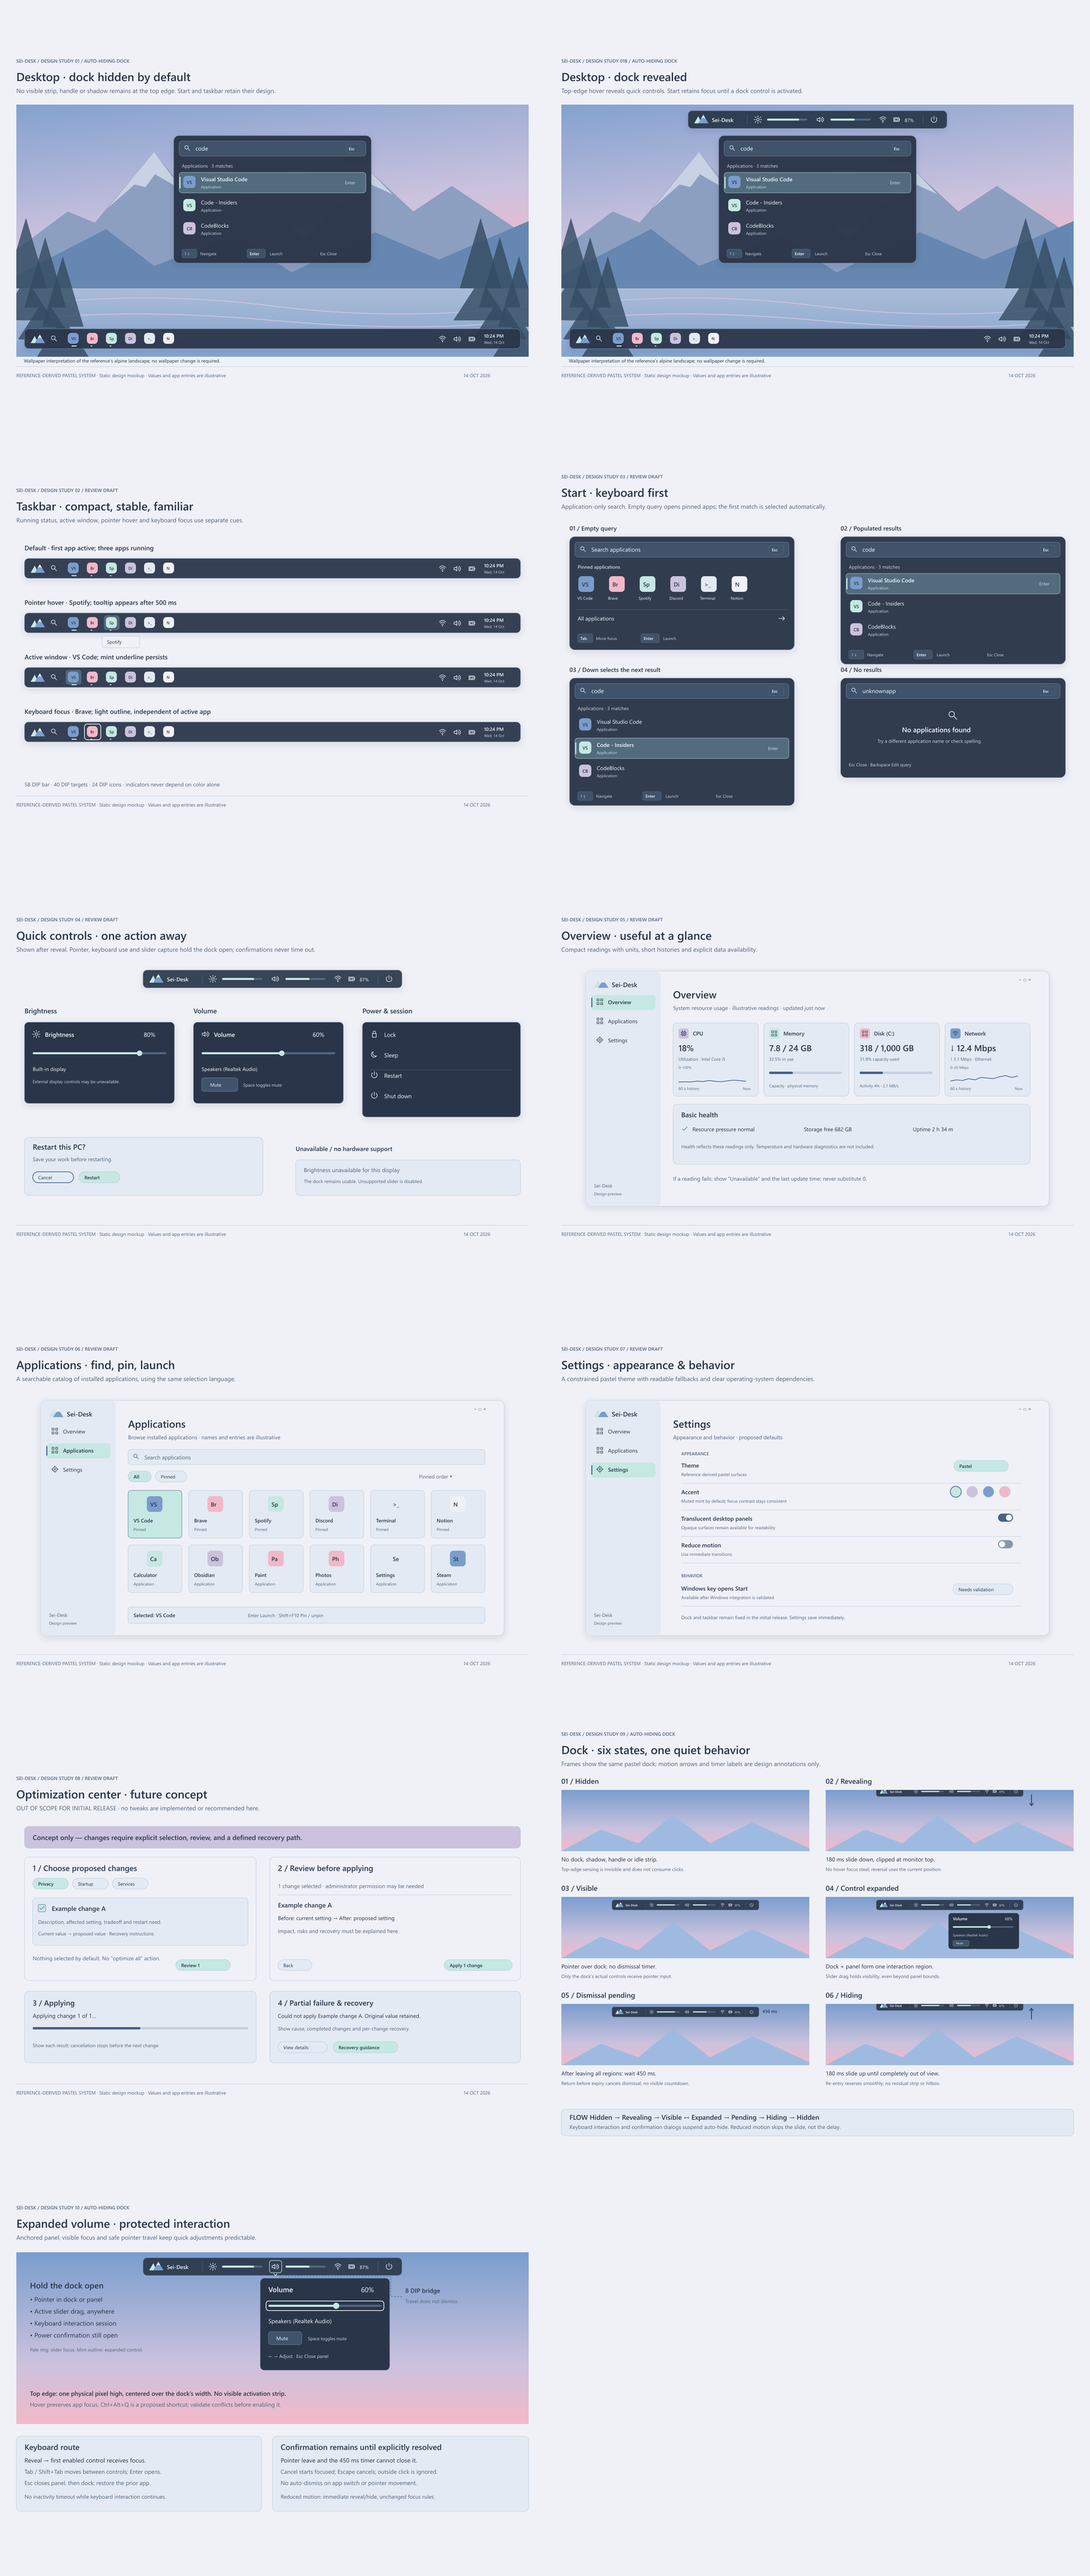
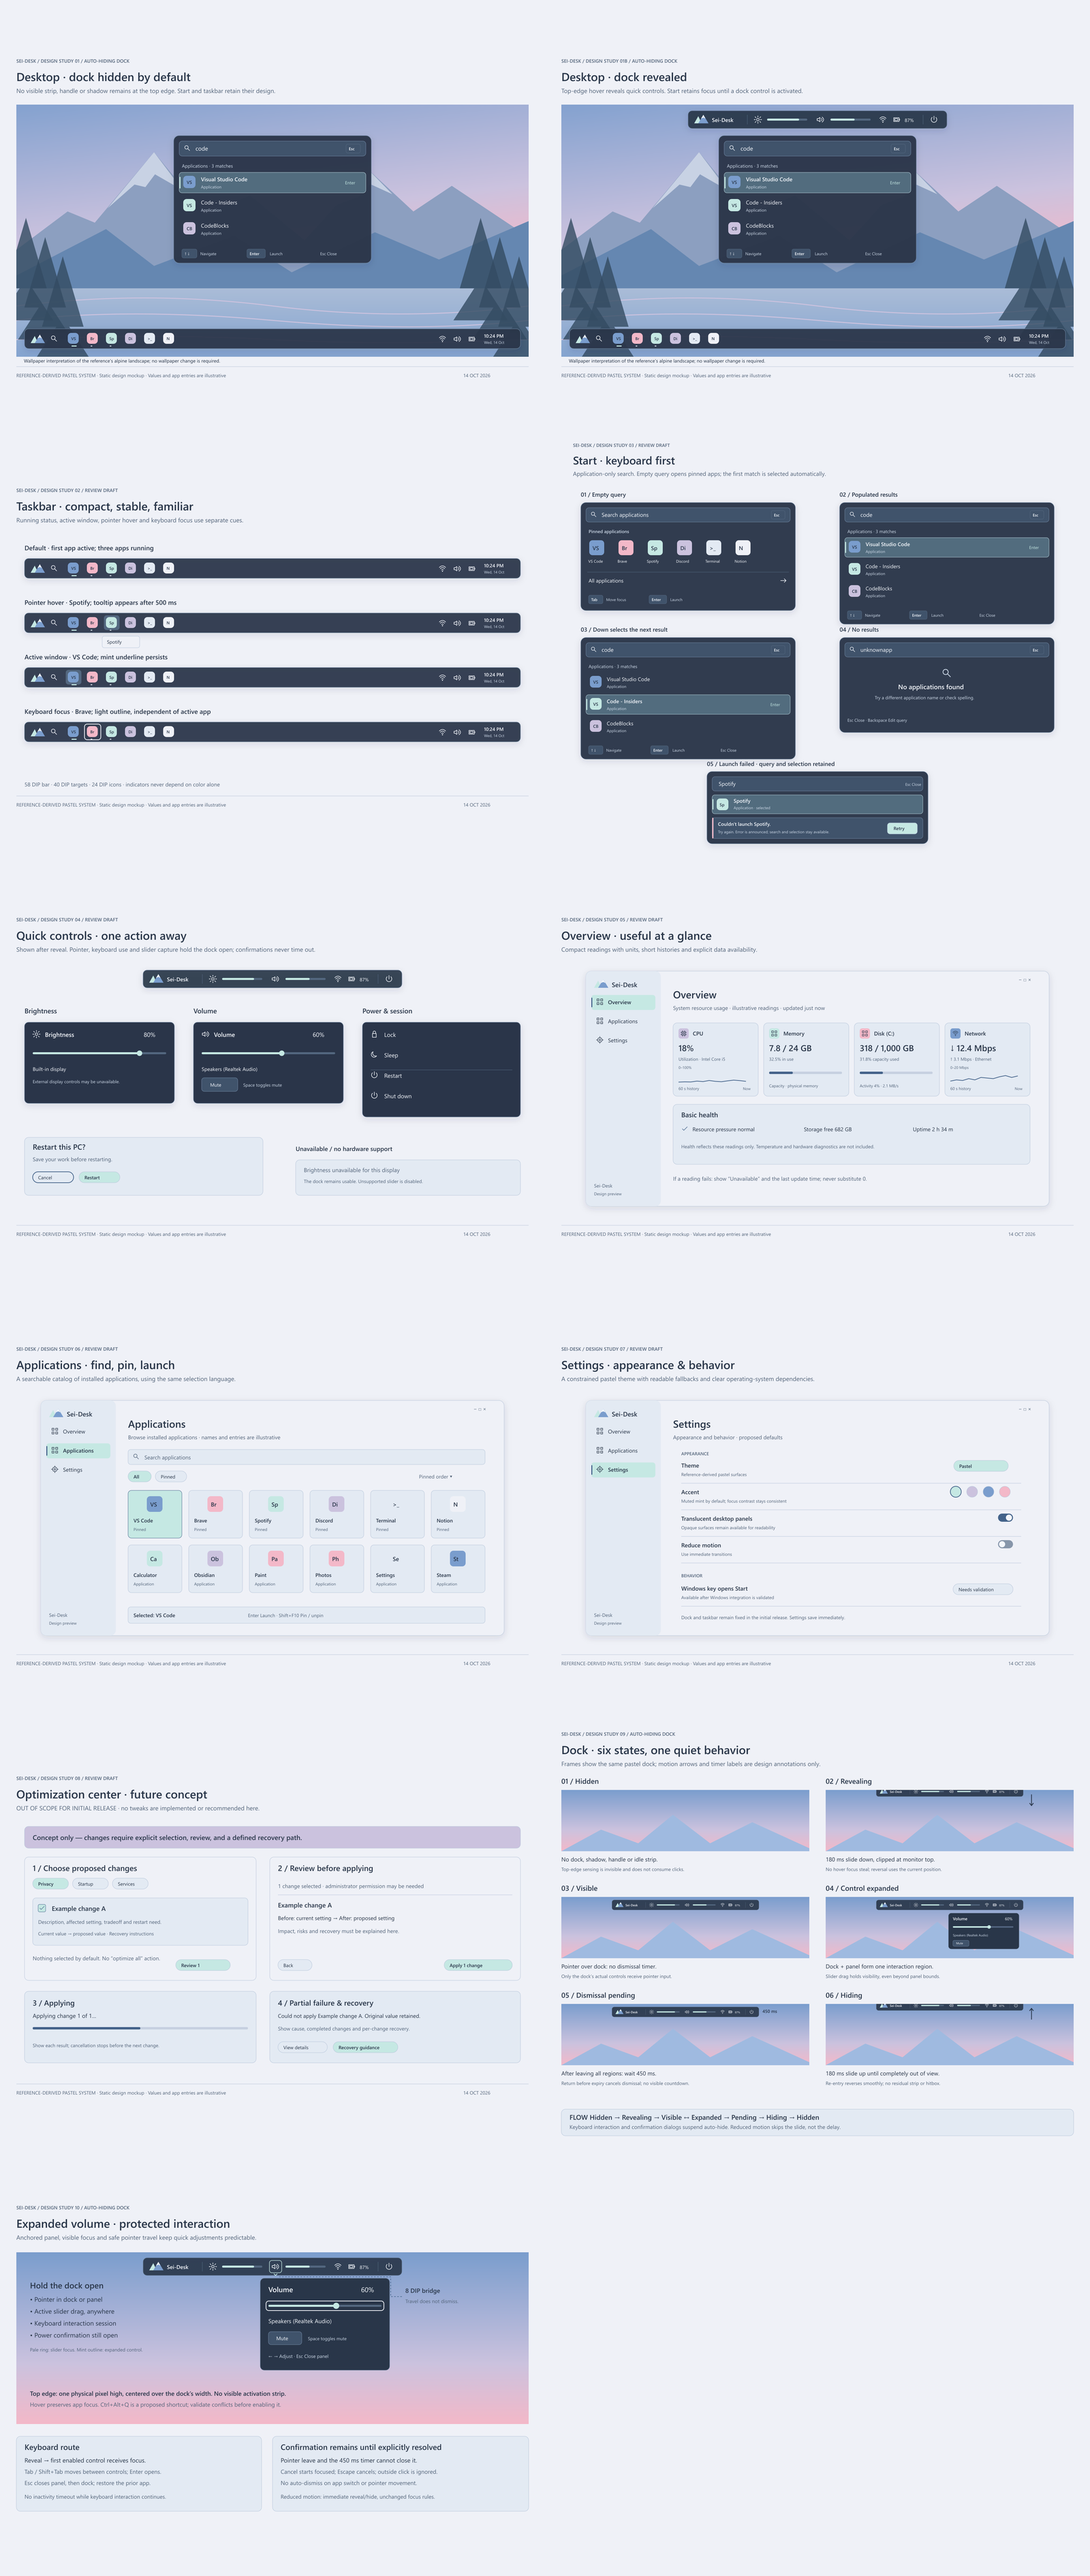
docs: finalize Sei-Desk desktop shell design

Changed region(s): [[0.5, 0.1561, 1.0, 0.3434]]

diff --git a/docs/design/SEI-DESK-UI-UX-SPEC.md b/docs/design/SEI-DESK-UI-UX-SPEC.md
@@ -36,7 +36,7 @@ No window tiling, marketplace, assistant, gaming features, extra system utilitie
 | --- | --- | --- |
 | 01 | [Desktop — dock hidden](mockups/01-desktop-composition.svg) | Default desktop, no top strip, unchanged Start and taskbar |
 | 01B | [Desktop — dock revealed](mockups/01b-desktop-dock-revealed.svg) | Same composition after non-activating top-edge reveal |
-| 02 | [Taskbar states](mockups/02-taskbar-states.svg) | Default, running, active, hover, keyboard focus |
+| 02 | [Taskbar states](mockups/02-taskbar-states.svg) | Default, running, active, hover, keyboard focus; minimized, grouped and narrow-layout behavior is specified in section 7 |
 | 03 | [Start states](mockups/03-start-launcher-states.svg) | Empty query with pins, matches, moved selection, no results |
 | 04 | [Quick-control dock](mockups/04-quick-control-dock.svg) | Revealed dock, brightness, volume/mute, power, confirmation, unavailable |
 | 05 | [Monitoring](mockups/05-system-overview.svg) | Four metrics, histories, basic health and data-failure rule |
@@ -127,6 +127,7 @@ Start button opens/closes the application launcher. Search button opens the same
 | Pinned, not running | App icon; no underline |
 | Running, inactive | Small centered pale dot below icon |
 | Active | Short mint underline plus tinted tile; no glow |
+| Minimized | Running dot remains; active underline clears; expose “Minimized” in the window chooser/accessibility state |
 | Hover | Slightly lighter slate tile; app-name tooltip after 500 ms |
 | Pressed | Stronger local tint until release; no layout shift |
 | Keyboard focus | 2 DIP light outline on dark surface; independent of active underline |
@@ -135,9 +136,13 @@ Start button opens/closes the application launcher. Search button opens the same
 | Launch failure | Anchored message with app name and Retry; no endless spinner |
 | Missing pinned app | Neutral placeholder with label and Remove pin action |
 
-Click a non-running app to launch; click a running app to request activation; click a group with multiple windows to choose a window. Do not assume clicking an active app minimizes it; v1 requests activation consistently. Right-click / Shift+F10 exposes Launch and Pin/Unpin, plus supported window selection. No jump-list, thumbnail-preview or task termination feature is introduced. Pins persist in user-defined order; manage ordering through a bounded “Move left / Move right” action in the catalog/taskbar context menu, avoiding a required drag implementation.
+Click a non-running app to launch; click a running app to request activation or restore it if minimized; click a group with multiple windows to choose a window. Do not assume clicking an active app minimizes it; v1 requests activation consistently. Right-click / Shift+F10 exposes Launch and Pin/Unpin, plus supported window selection and **Minimize** for the selected eligible window. The window chooser labels minimized entries and selecting one requests restore/activation. These actions are requests subject to Windows foreground and ownership rules; do not report success if activation is denied. No jump-list, thumbnail-preview or task termination feature is introduced. Pins persist in user-defined order; manage ordering through a bounded “Move left / Move right” action in the catalog/taskbar context menu, avoiding a required drag implementation.
 
-Focus cycling uses Tab/Shift+Tab between groups, Left/Right within app slots, Enter/Space activate, Escape close a menu. When app slots overflow, preserve Start/status and offer a “More apps” menu rather than shrink icons. Third-party tray hosting is a separate engineering problem: initial status icons may be Sei-Desk-owned network/audio/battery indicators. Do not claim full Explorer notification-area parity until validated; preserve access to the Windows tray if it cannot be replicated safely.
+Focus cycling uses Tab/Shift+Tab between groups, Left/Right within app slots, Enter/Space activate, Escape close a menu, and Shift+F10 opens the focused item’s context menu. The menu and window chooser keep visible focus and expose window/app names plus running, minimized and active states to assistive technology. Unavailable or missing pinned apps retain their neutral placeholder and Remove pin action; a launch rejection uses the anchored Retry state. When app slots overflow, preserve Start, the active-window route and clock, then place remaining app slots behind “More apps”; do not shrink icons. In a narrow layout, keep clock/date visible and move lower-priority status indicators into a keyboard-accessible tray overflow in stable order. Escape closes that overflow and returns focus to its invoking tray control.
+
+Taskbar status glyphs are compact read-only indicators. The top dock owns brightness, volume/mute and power/session controls; activating the taskbar volume glyph reveals the dock and opens its existing volume panel, so there is one adjustment surface and one state source. Network/battery may be echoed in both places for at-a-glance status, but must not gain separate controls. The clock/date stays passive and does not open a calendar. Third-party tray hosting is a separate engineering problem: initial status icons may be Sei-Desk-owned network/audio/battery indicators. Do not claim full Explorer notification-area parity until validated; preserve access to the Windows tray if it cannot be replicated safely.
+
+The mockups show one taskbar on the primary monitor. Initial multi-monitor fallback keeps Windows’ taskbar available on secondary monitors rather than implying replicated custom bars. On exclusive or borderless full-screen content, suppress the custom taskbar surface and do not show it over the application or queue a delayed appearance. Leave Windows’ own taskbar/full-screen policy untouched. After full-screen ends, normal taskbar availability resumes; no activation or focus change is caused by that transition. Reliable full-screen detection, shell coexistence and work-area/appbar behavior are engineering requirements, not guaranteed by the mockup.
 
 ## 8. Start launcher behavior
 
@@ -152,17 +157,21 @@ Typing filters installed application names only. Proposed matching: case-insensi
 | Typing / IME composition | Edit query; do not launch or move selection while composition is active |
 | Up / Down with results | Move active result without moving text caret; scroll it into view; clamp at ends |
 | First results for new query | Select first match; selection changes announced when accessibility permits |
-| Enter | Launch selected result; close only on accepted launch request |
+| Enter | Request launch for the selected result; close when Windows accepts the request, otherwise retain the launcher and show the inline failure |
 | Enter with no results | No action; retain useful no-results message |
-| Escape | Close launcher and restore prior window focus if permitted |
-| Windows key while open | Desired close behavior, subject to shortcut handling validation |
+| Escape | Close launcher; request focus restoration under the conditions below |
+| Windows key while open | Desired close behavior, subject to shortcut handling validation; do not interfere with an active composition or modifier shortcut |
 | Tab / Shift+Tab | Move among search, pins/results and All applications; maintain visible focus |
 | Left / Right in search | Normal text-caret behavior |
 | Mouse hover on result | Hover tint only; does not silently replace the keyboard-selected result |
-| Mouse click on result | Select and launch that result |
+| Mouse click on result | Select and launch that result; leave query and result selected if launching fails |
 | Click outside / genuine focus loss | Dismiss launcher; never cancel a pointer interaction inside its own popup |
 
-Each result row: 32 DIP application icon, name, “Application” subtitle and Enter hint only on the active row. Selected fill uses slate-blue, mint rail and semibold name; selection is not communicated by color alone. Empty-search means empty query with pins; no-results means a non-empty query with zero matches. No-results copy: **“No applications found”**, followed by **“Try a different application name or check spelling.”** Launch failure appears inline, retaining query and selection for retry.
+Each result row: 32 DIP application icon, name, “Application” subtitle and Enter hint only on the active row. Selected fill uses slate-blue, mint rail and semibold name; selection is not communicated by color alone. Empty-search means empty query with pins; no-results means a non-empty query with zero matches. No-results copy: **“No applications found”**, followed by **“Try a different application name or check spelling.”** Launch failure appears immediately below the selected result as a muted-blush inline status with concise copy and a Retry button. Show it only when the OS launch request is rejected; do not wait for the new application window to appear or claim that it became foreground. Keep query and result selection. Announce the status politely without moving focus; Tab reaches Retry, and Enter retries only when Retry is focused. A failed attempt never closes Start or clears the query. Plate 03 now illustrates this fifth state in the existing launcher mockup.
+
+When Start opens, record the previously foreground application/window and, where supported, its focused control. Escape closes Start and requests restoration only while Sei-Desk still owns foreground/focus and the recorded target remains valid; if the user has activated another application, never force the stale target back to the front. A click on an application that dismisses Start lets Windows activate the clicked target normally. On a rejected or failed launch request, keep Start open, keep the query and selected result, retain the initiating keyboard/pointer context, and announce the inline status; a successful launch closes Start after acceptance and lets normal Windows foreground policy decide whether the launched app takes focus. Do not restore the previous application over a newly launched app. Restore behavior is an intent subject to Windows foreground rules, not a guarantee.
+
+Full-screen policy: do not overlay the custom launcher over exclusive or borderless full-screen content, steal foreground, or queue a delayed appearance. While full-screen is active, leave the bare Windows key to Windows; do not intercept or swallow it for custom Start activation. After full-screen exits, require a fresh Windows-key press or deliberate clickable Start/search action. Windowed/maximized apps retain the normal launcher design, subject to separately validated positioning. Lock/UAC/secure desktop always suppresses Sei-Desk surfaces. Detecting full-screen soon enough to leave the bare Windows key untouched is an engineering requirement and must be validated alongside the interception work below.
 
 Windows-key interception must be designed around press/release timing, left/right Windows keys, repeat suppression, modifier combinations, focus policy and recovery from failed hooks. Validate it in an isolated future technical investigation. Provide clickable Start/search access regardless; show the settings row as unavailable until this capability is validated. These are requirements, not a claim that iced can capture global keys.
 
@@ -325,10 +334,11 @@ Current official iced window settings expose decoration, positioning, transparen
 
 | Design decision | OS behavior requiring validation | Fallback / release condition |
 | --- | --- | --- |
-| Windows key opens Start | Global key interception, modifier preservation, hook timing and Windows Start suppression | Clickable Start/search; do not mark keyboard interception complete without testing |
-| Persistent bottom taskbar | Appbar reservation, native taskbar coexistence/hiding and restoration, Explorer restart | Keep native taskbar accessible until coexistence/recovery is proven |
-| Running app indicators / activate | Window enumeration, ownership/grouping, foreground restrictions, elevated windows | Show supported windows; explain unavailable activation rather than claim success |
-| Tray icons | Explorer notification-area behavior / third-party tray hosting | Sei-Desk-owned status indicators; retain Windows tray access |
+| Windows key opens Start | Global key interception, modifier preservation, hook timing, Windows Start suppression, fullscreen detection before key suppression | Clickable Start/search; leave bare Windows key to Windows during full-screen; validate section 8 before enabling interception |
+| Persistent bottom taskbar | Appbar reservation, native taskbar coexistence/hiding and restoration, Explorer restart; custom taskbar suppression over exclusive/borderless full-screen; primary/secondary monitor policy | Keep native taskbar accessible until coexistence/recovery is proven; do not force a fullscreen overlay |
+| Sei-Desk crash / forced termination | Cleanup and recovery for keyboard hooks, appbar/work-area reservations, topmost windows, pointer capture and owned confirmations; restart without duplicate shell surfaces | Windows desktop remains usable through the native taskbar; do not replay power/session actions or restore stale focus/dialog state; verify cleanup after process termination and Explorer restart |
+| Running app indicators / activate / minimize | Window enumeration, ownership/grouping, minimized state, foreground restrictions, elevated windows | Show supported windows; explain unavailable activation rather than claim success; retain normal window controls as fallback |
+| Tray icons and dock shortcuts | Explorer notification-area behavior / third-party tray hosting, status refresh and panel handoff to a non-activating dock | Keep taskbar indicators read-only; dock owns adjustments; retain Windows tray access |
 | Slate glass | Compositor backdrop blur, transparency, reduced transparency preferences, performance | Opaque slate with same borders and hierarchy |
 | Auto-hiding top dock | Physical-edge sensing, non-activating/topmost window, monitor clipping, owned-popover focus, capture, full-screen suppression | No permanent top reservation; suppress unsupported automatic reveal, retain explicit keyboard/menu access; validate section 9 scenarios |
 | Brightness | Built-in display versus external monitor interfaces and capability detection | Disabled control with display-specific explanation |
@@ -360,8 +370,10 @@ Plate 08 uses “Example change A” deliberately; it illustrates the interactio
 - [x] Sampled palette recorded with coordinates; derived colors distinguished from evidence.
 - [x] Pastel wallpaper and light application surfaces remain coherent with slate floating overlays.
 - [x] Taskbar switches/launches; Start searches apps; top dock controls hardware/session actions.
-- [x] Eleven plates include the original module designs plus dock-hidden/revealed compositions, six auto-hide states and expanded-control interaction.
+- [x] Eleven plates include launcher launch failure alongside the original states, dock-hidden/revealed compositions, six auto-hide states and expanded-control interaction.
+- [x] Start fullscreen policy, failure focus and safe restoration behavior documented.
 - [x] Dock timing, activation zone, keyboard ownership, slider capture and non-dismissing confirmations documented.
+- [x] Desktop shell coordination, shared quick-control ownership, fullscreen/monitor fallbacks and crash recovery requirements documented.
 - [x] Component geometry, focus, pointer/keyboard routes, layers, fallback behavior and scaling documented.
 - [x] Rust + iced constraints respected; unverified Windows behaviors explicitly separated.
 - [x] Optimizer clearly outside initial release; no unrelated features introduced.
